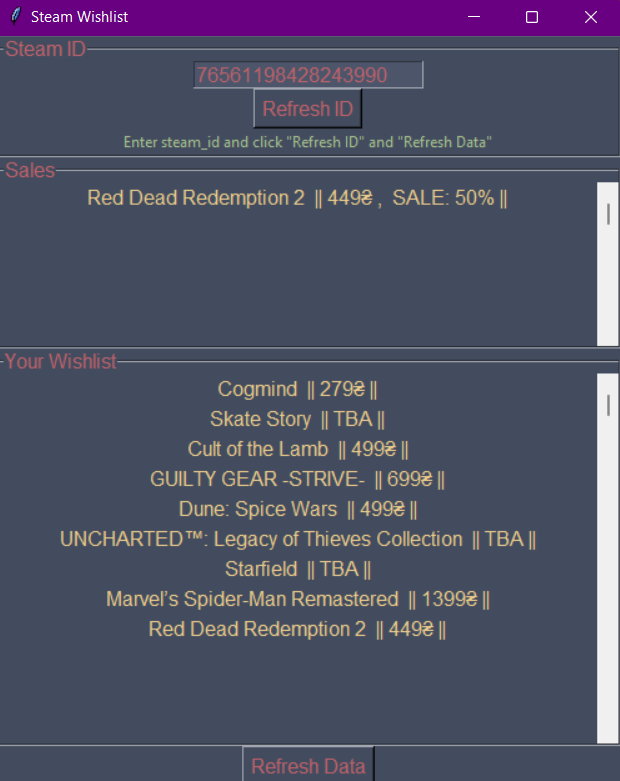
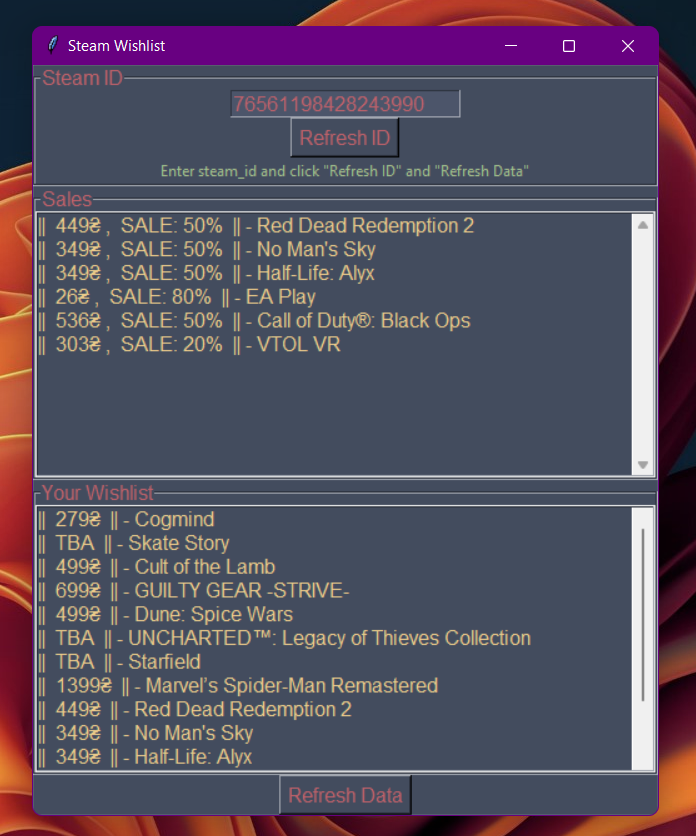
Виправи баг зі ScrollBar

diff --git a/src/swgui.py b/src/swgui.py
@@ -15,6 +15,7 @@ class SWGui:
         self.window.geometry('500x600')
         self.window.configure(background = '#434c5e')
 
+        #steam_id_frame
         self.steam_id_frame = tk.LabelFrame(
             self.window,
             text       = 'Steam ID',
@@ -51,7 +52,9 @@ class SWGui:
             background = '#434c5e',
         )
         userInfo.pack()
+        #steam_id_frame
 
+        #sales_frame
         self.sales_frame = tk.LabelFrame(
             self.window,
             text       = 'Sales',
@@ -61,10 +64,9 @@ class SWGui:
             height     = 150,
         )
         self.sales_frame.pack(expand=True, fill=tk.BOTH)
+        #sales_id_frame
 
-        #scrollbar_sf = tk.Scrollbar(self.sales_frame)
-        #scrollbar_sf.pack(side = tk.RIGHT, fill = tk.Y)
-
+        #wishlist_id_frame
         self.wishlist_frame = tk.LabelFrame(
             self.window,
             text       = 'Your Wishlist',
@@ -74,9 +76,7 @@ class SWGui:
             height     = 300
         )
         self.wishlist_frame.pack(expand=True, fill=tk.BOTH)
-
-        #scrollbar_wf = tk.Scrollbar(self.wishlist_frame)
-        #scrollbar_wf.pack(side = tk.RIGHT, fill = tk.Y)
+        #wishlist_id_frame
 
         if self.steam_id != 'Undefined':
             self.wishlist = sw.SteamWishlist(self.steam_id).get_wishlist()
@@ -96,33 +96,46 @@ class SWGui:
         '''
         Виводить інфу про ваш список бажаного у визначені фрейми.
         '''
-        scrollbar_sf = tk.Scrollbar(self.sales_frame)
-        scrollbar_sf.pack(side = tk.RIGHT, fill = tk.Y)
+        self.sales_listbox = tk.Listbox(
+            self.sales_frame,
+            background = '#434c5e',
+            foreground = '#ebcb8b',
+            font       = (16)
+        )
+        self.sales_listbox.pack(side = tk.LEFT, fill = tk.BOTH, expand=True)
 
-        scrollbar_wf = tk.Scrollbar(self.wishlist_frame)
-        scrollbar_wf.pack(side = tk.RIGHT, fill = tk.Y)
+        self.scrollbar_sf = tk.Scrollbar(self.sales_listbox)
+        self.scrollbar_sf.pack(side = tk.RIGHT, fill = tk.BOTH)
+
+        self.sales_listbox.config(yscrollcommand = self.scrollbar_sf.set)
+        self.scrollbar_sf.config(command = self.sales_listbox.yview)
+
+        self.wishlist_listbox = tk.Listbox(
+            self.wishlist_frame,
+            background = '#434c5e',
+            foreground = '#ebcb8b',
+            font       = (16)
+        )
+        self.wishlist_listbox.pack(side = tk.LEFT, fill = tk.BOTH, expand=True)
+
+        self.scrollbar_wf = tk.Scrollbar(self.wishlist_listbox)
+        self.scrollbar_wf.pack(side = tk.RIGHT, fill = tk.BOTH)
+
+        self.wishlist_listbox.config(yscrollcommand = self.scrollbar_wf.set)
+        self.scrollbar_wf.config(command = self.wishlist_listbox.yview)
 
         for key in self.wishlist.keys():
-            label = tk.Label(
-                self.wishlist_frame,
-                text = key + "  || " + self.wishlist[key][0] + " ||",
-                foreground = '#ebcb8b',
-                background = '#434c5e',
-                font       = (14)
+            self.wishlist_listbox.insert(
+                tk.END, "||  " + self.wishlist[key][0] + "  ||" + " - " + key
             )
-            label.pack()
         
         for key in self.wishlist.keys():
             if self.wishlist[key][1]:
-                label = tk.Label(
-                    self.sales_frame,
-                    text = key + "  || " + self.wishlist[key][0] + " , " +
-                        " SALE: " + str(self.wishlist[key][2]) + "% ||",
-                    foreground = '#ebcb8b',
-                    background = '#434c5e',
-                    font       = (14)
+                self.sales_listbox.insert(
+                    tk.END, "||  " + self.wishlist[key][0] + " , " +
+                    " SALE: " + str(self.wishlist[key][2]) + "%  ||" + 
+                    " - " + key
                 )
-                label.pack()
 
     def click_refresh_id(self):
         '''

diff --git a/README.md b/README.md
@@ -2,7 +2,7 @@
 A program that allows you to monitor price changes and discounts on your
 Steam wishlist 😎
 
-![Steam Wishlist Monitoring Screenshot](./github_res/swm_screen.png "Steam Wishlist Monitoring")
+![Steam Wishlist Monitoring Screenshot](./github_res/swm_screen.jpg "Steam Wishlist Monitoring")
 
 If this is the first time you run the program, enter steam_id
  and click "Refresh ID" and "Refresh Data"
